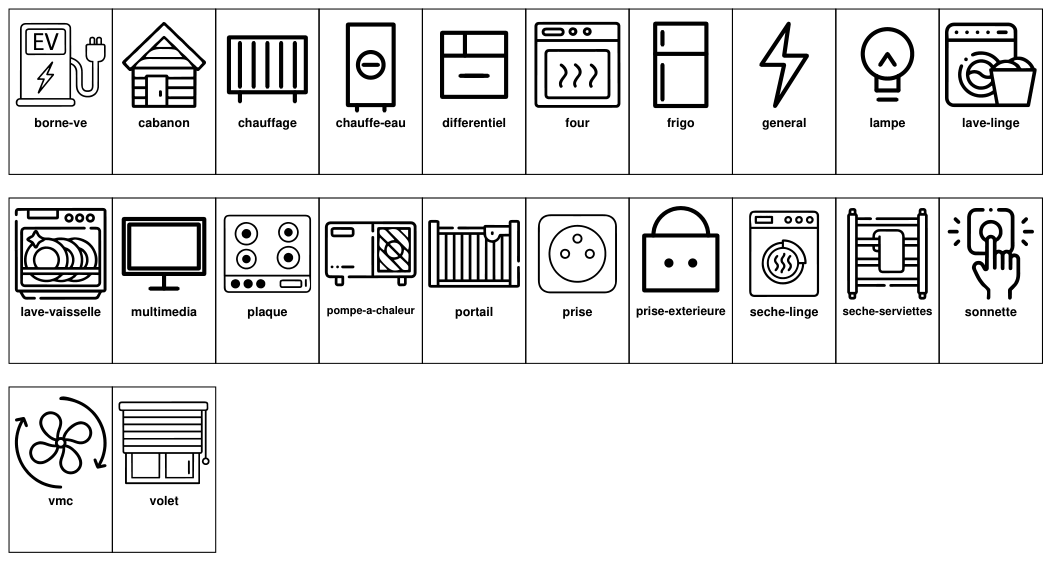
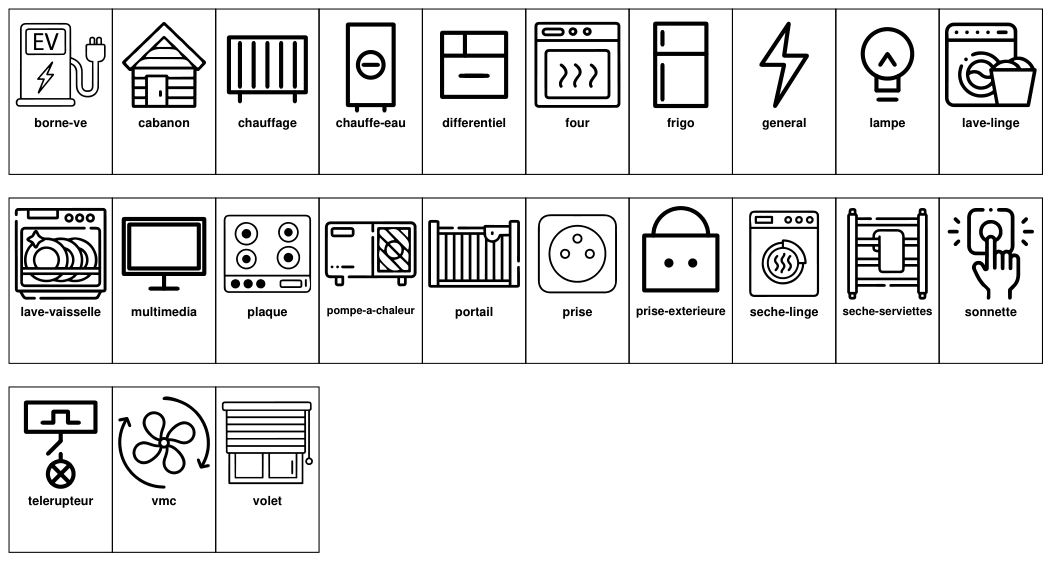
Add files via upload

Changed region(s): [[0.0, 0.6643, 0.3033, 0.9059], [0.2123, 0.9663, 0.3033, 0.9964]]

diff --git a/icones.py b/icones.py
@@ -93,6 +93,17 @@ def _general(p):
     p.line((.55, .95), (.25, .5), (.5, .5), (.4, .05), (.75, .6), (.5, .6), (.55, .95))
 
 
+def _telerupteur(p):
+    p.rect(.12, .62, .76, .32)
+    p.line((.3, .72), (.42, .72), (.42, .84), (.58, .84), (.58, .72), (.7, .72))
+    p.line((.5, .62), (.5, .52))
+    p.line((.5, .52), (.36, .38))
+    p.line((.5, .38), (.5, .3))
+    p.circle(.5, .16, .14)
+    p.line((.4, .06), (.6, .26))
+    p.line((.6, .06), (.4, .26))
+
+
 def _trace(ops):
     def dessiner(p):
         p.ops.append(ops)
@@ -153,4 +164,5 @@ ICONS = {
     "general": _general, "borne-ve": _borne_vE, "cabanon": _cabanon,
     "seche-serviettes": _seche_serviettes,
     "pompe-a-chaleur": _pompe_a_chaleur,
+    "telerupteur": _telerupteur,
 }

diff --git a/generateur_etiquettes.py b/generateur_etiquettes.py
@@ -292,9 +292,12 @@ class Renderer:
     def label(self, item, x, y, w, h):
         lab = self.lab
         pad = lab.get("marge_interne_mm", 1.0) * MM
-        if lab.get("bordure", True):
+        vide = item.get("vide", False)
+        if item.get("bordure", False if vide else lab.get("bordure", True)):
             self.ops.append("q %.2f w 0 G %.2f %.2f %.2f %.2f re S Q" % (
                 lab.get("epaisseur_bordure_pt", 0.5), x, y, w, h))
+        if vide:
+            return
         text = item.get("texte", "")
         sub = item.get("sous_texte", "")
         img = item.get("image")

diff --git a/README.md b/README.md
@@ -115,6 +115,7 @@ Liste de rangées. Chaque rangée correspond à une ligne du tableau électrique
 |---|---|---|
 | `modules` | `1` | Nombre de modules occupés. La largeur vaut `modules` × `largeur_module_mm` |
 | `texte` | `""` | Texte principal |
+| `vide` | `false` | Module vide: l'étiquette occupe `modules` modules sans rien afficher (ni texte, ni image, ni cadre). Sert à laisser un espace entre deux disjoncteurs |
 | `repere` | `""` | Repère technique affiché en petit au-dessus de l'icône (voir ci-dessous) |
 | `sous_texte` | `""` | Petit texte en bas (calibre, type, etc.) |
 | `image` | aucune | Nom d'une icône intégrée ou chemin d'un PNG |
@@ -128,6 +129,16 @@ Exemple:
 ```
 
 Une étiquette peut n'avoir que du texte, que de l'image, ou les deux.
+
+#### Modules vides
+
+Pour laisser un espace entre deux disjoncteurs, ajoute une étiquette `vide`:
+
+```json
+{ "vide": true, "modules": 2 }
+```
+
+Elle compte dans le total de modules de la rangée (donc dans la limite de `modules_par_rangee`). Elle n'a pas de cadre par défaut. Ajoute `"bordure": true` pour en tracer un.
 
 #### Repères techniques (IEC 81346)
 
@@ -155,7 +166,7 @@ Le repère est libre: le générateur l'affiche tel quel, sans le contrôler ni 
 
 Liste affichée par `python3 generateur_etiquettes.py --liste-icones`:
 
-`lampe`, `prise`, `four`, `plaque`, `lave-linge`, `lave-vaisselle`, `seche-linge`, `chauffage`, `frigo`, `volet`, `chauffe-eau`, `vmc`, `prise-exterieure`, `multimedia`, `sonnette`, `portail`, `differentiel`, `general`, `borne-ve`, `cabanon`, `seche-serviettes`, `pompe-a-chaleur`.
+`lampe`, `prise`, `four`, `plaque`, `lave-linge`, `lave-vaisselle`, `seche-linge`, `chauffage`, `frigo`, `volet`, `chauffe-eau`, `vmc`, `prise-exterieure`, `multimedia`, `sonnette`, `portail`, `differentiel`, `general`, `borne-ve`, `cabanon`, `seche-serviettes`, `pompe-a-chaleur`, `telerupteur`.
 
 ![Aperçu des icônes intégrées](apercu_icones.png)
 
